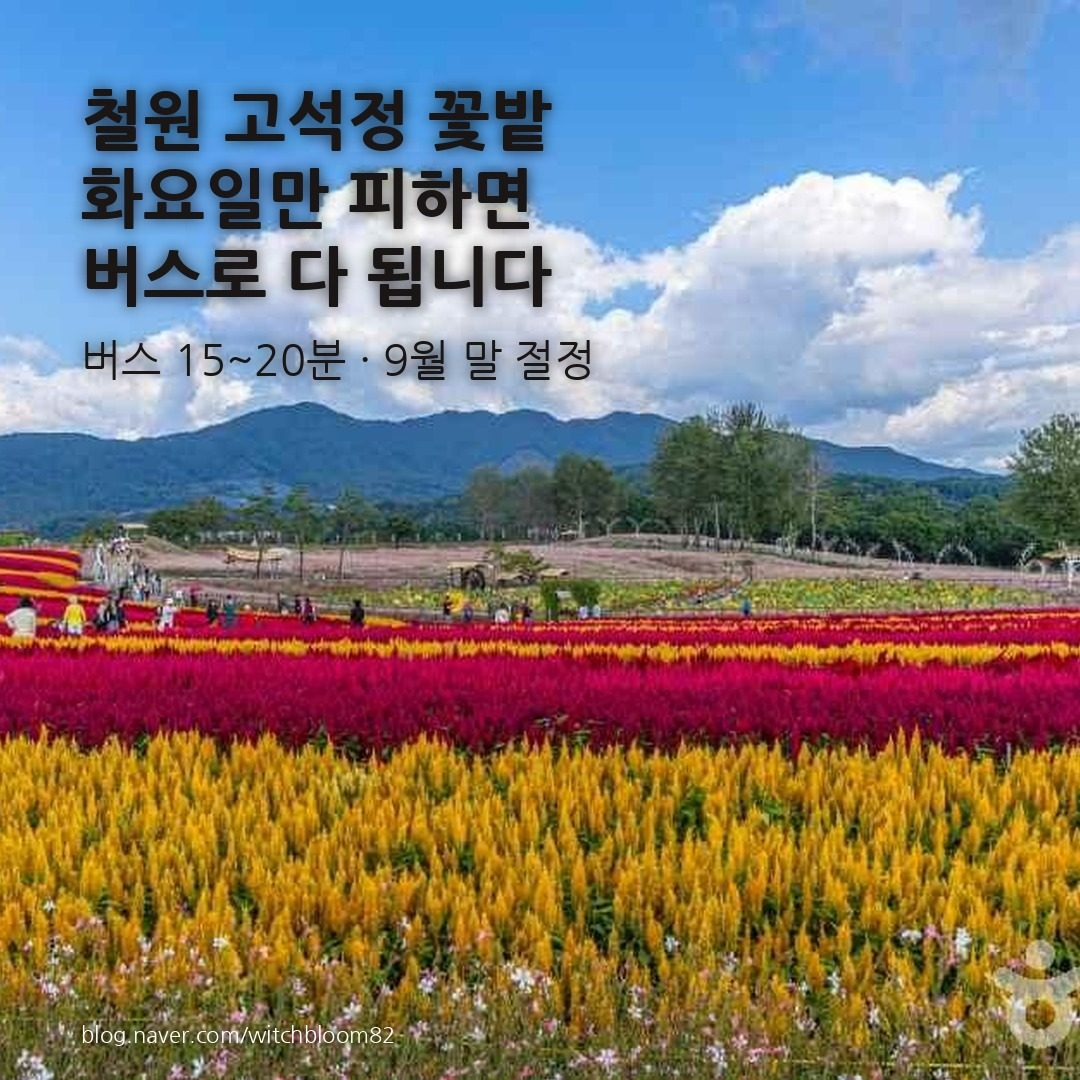
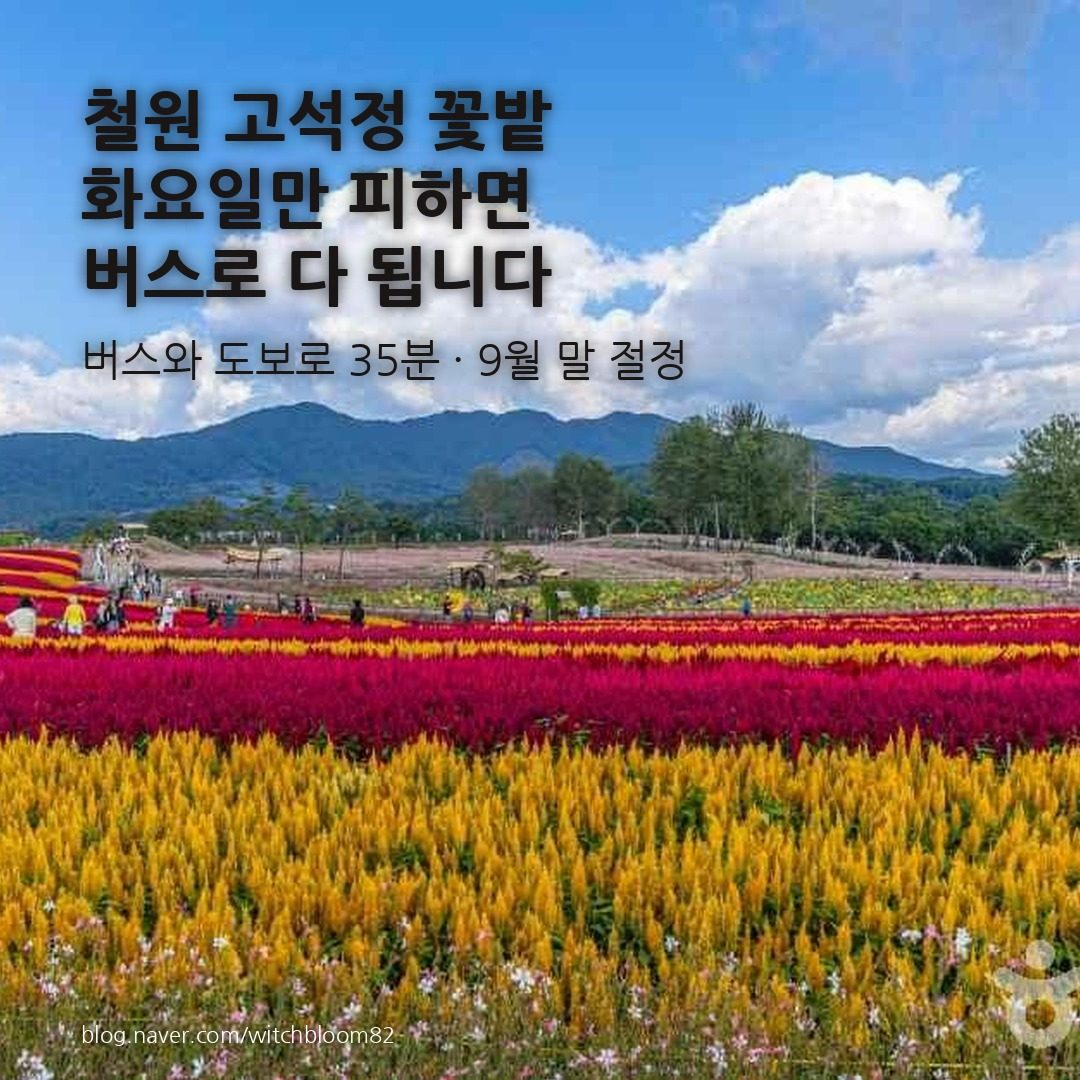
철원 교통 정보 정정 — 하차 후 도보 10분을 통째로 빠뜨렸다
운영자가 네이버지도로 확인해 잡아준 오류다. 2차 출처(나무위키·버스집계)를
믿고 쓴 값이 여러 개 틀렸다.

  버스 번호   1번(이평 방면)      → 2 · 5 · 2-1번
  승차 정류장  동송터미널(이평리)   → 이평리(정한약국 앞) · 터미널서 도보 1분
  소요        15~20분            → 총 35분 (도보1 + 버스22 + 도보10)
  하차 후     언급 없음           → 고석정(정문) 하차 후 도보 10분
  택시        9,530원 · 15분     → 13,200원 · 12분 · 7.7km
  '1-1번 미경유' 경고             → 근거 없음, 삭제

가장 나쁜 건 하차 후 도보 10분이다. "15분이면 도착"이라 해놓고 실제 35분이면
시니어 독자를 30분 늦게 만든다. 이 블로그가 막겠다던 바로 그 사고다.

area1·area2와 카드 3장(썸네일·코스요약·교통)을 다시 만들었다.
카드4는 '1번버스'라는 이름 자체가 틀려서 '동송터미널→꽃밭'으로 바꿨다.

안티패턴에 남겼다 — CLAUDE.md에 '지도 기준은 네이버지도'라고 적어놓고
정작 지도를 못 열어 그걸 못 지켰다. 마지막 1구간은 반드시 네이버지도
길찾기 값으로 적고, 못 열면 단정하지 말고 확인을 요청한다.
'버스 N분'이 아니라 '문 앞까지 총 N분'으로 쓴다.

Claude-Session: https://claude.ai/code/session_018cXnRr9rN6XXTQHvd3n7uT

Changed region(s): [[0.1528, 0.3056, 0.6417, 0.3667]]

diff --git a/.claude/posts/2026-09-07-철원가볼만한곳/area1.md b/.claude/posts/2026-09-07-철원가볼만한곳/area1.md
@@ -2,7 +2,7 @@
 
 1. 철원 가볼만한곳, 고석정 꽃밭 65세 5,000원 반나절 (31자) — 노리는 검색어: 철원 가볼만한곳 / 65세 할인
 2. 철원 가볼만한곳, 고석정 꽃밭 화요일엔 못 들어가요 (28자) — 노리는 검색어: 철원 가볼만한곳 / 화요일 휴무
-3. 철원 가볼만한곳, 동송터미널서 버스 20분 고석정 (27자) — 노리는 검색어: 철원 가볼만한곳 / 동송터미널 가는법
+3. 철원 가볼만한곳, 동송터미널서 35분 고석정 꽃밭 (26자) — 노리는 검색어: 철원 가볼만한곳 / 동송터미널 가는법
 
 ---
 
@@ -21,21 +21,21 @@
 가을 햇살 아래 억새가 흔들리는 고석정 꽃밭, 상상만 해도 마음이 편안해지죠.
 
 버스만으로 충분히 다녀올 수 있는 곳이에요.
-추천 순서는 동송터미널 → 1번 버스 → 고석정 꽃밭, 이 순서예요. 배차가 촘촘한 노선이라 가장 헤맬 일이 적어요.
-핵심 교통은 철원 농어촌버스 1번(이평 방면)이고, 동송터미널에서 타면 15~20분이면 도착해요.
+추천 순서는 동송터미널 → 이평리 정류장 → 농어촌버스 → 고석정 꽃밭, 이 순서예요.
+★터미널에서 꽃밭까지 [굵게]문 앞까지 총 35분[/굵게]으로 잡으세요. 버스만 22분이 아니라, 하차 후 걷는 10분이 더 붙어요.
 ★가장 조심할 점은 매주 화요일 휴무예요. 꽃밭도, 근처 맛집 두 곳도 화요일엔 문을 닫아요.
-실시간 버스 위치는 네이버지도로 보면 되고, 버스를 놓쳐도 동송터미널까지 택시로 약 9,530원, 15분이면 빠져나올 수 있어요.
+실시간 버스 위치는 네이버지도로 보면 되고, 버스를 놓쳐도 택시로 12분·약 13,200원이면 빠져나올 수 있어요.
 
 버스 노선 하나만 기억하면 되는 코스라 난이도는 낮은 편이에요.
 
 [박스]
 📌 3초 요약
 ✅ 가능여부 : 버스로 완전히 가능해요 (기차는 아직 이용 불가)
-✅ 핵심교통 : 동송터미널 → 1번 버스(이평 방면) 15~20분 · 1,550원
+✅ 핵심교통 : 동송터미널 → 이평리 정류장 도보 1분 → 2·5·2-1번 버스 22~27분 → 고석정(정문) 하차 후 도보 10분 (총 35~41분)
 ✅ 입장료 : 성인 10,000원 · 65세 이상 5,000원 (둘 다 절반은 철원사랑상품권으로 돌려받아요)
 ★ 조심할 점 : 매주 화요일 휴무 (꽃밭 + 맛집 2곳 모두)
 ✅ 하루 총 비용(65세 기준) : 왕복 지역버스 3,100원 + 입장료 실부담 2,500원 ≈ 5,600원 (동송까지 오가는 장거리 버스비는 별도예요)
-✅ 실시간/플랜B : 네이버지도로 버스 실시간 위치 보기, 놓치면 택시(약 9,530원·15분)로 탈출
+✅ 실시간/플랜B : 네이버지도로 버스 실시간 위치 보기, 놓치면 택시(12분·약 13,200원)로 탈출
 [/박스]
 
 [소제목]🌸 철원 고석정 꽃밭, 반나절이면 다 돌아볼 수 있나요?[/소제목]
@@ -43,16 +43,16 @@
 고석정 꽃밭은 반나절이면 충분히 돌아볼 수 있어요. 주상절리길까지 욕심내지 않아도 꽃밭만으로 하루가 알차요.
 
 1. 동송터미널 도착 (서울·의정부에서 버스)
-2. 동송터미널 → 1번 버스 → 고석정 꽃밭 : 15~20분
+2. 동송터미널 → 이평리 정류장(도보 1분) → 버스 22~27분 → 고석정(정문) 하차 → 도보 10분 : [굵게]총 35~41분[/굵게]
 3. 고석정 꽃밭 + 고석정(정자) 관람 : 2~3시간
-4. 동송 시내로 돌아와 점심 : 1시간
+4. 같은 길로 동송 시내 복귀(35분) → 점심 : 1시간
 5. 동송터미널에서 귀경 버스 : [색변경]16시 전 출발[/색변경]
 
 ★시각을 못 박지 않은 이유가 있어요. 의정부발 3001번은 12:30·16:00·18:50 세 편만 시각표가 확인됐어요.
 　3001-1번이 하루 9회 더 있지만 출발 시각이 공개돼 있지 않아, 오전에 도착하려면 예매 사이트에서 이른 편이 있는지 먼저 보는 게 좋아요.
-　거꾸로 계산하면 이렇게 돼요 — 귀경 16시에 맞추려면, 늦어도 12시에는 꽃밭에 들어가 있어야 해요.
+　거꾸로 계산하면 이렇게 돼요 — 귀경 16시 버스를 타려면 [굵게]꽃밭에서 15시에는 나와야[/굵게] 하고(복귀 35분+여유), 그러려면 늦어도 정오에는 꽃밭에 들어가 있어야 해요.
 
-이동시간을 다 더해도 3시간 안팎이고, 꽃밭에서 머무는 시간이 그보다 길어요. 다 안 봐도 되니, 꽃밭 하나만 느긋하게 보고 오는 것도 좋은 선택이에요.
+동송까지 오가는 시간을 빼면 현지 이동은 왕복 1시간 10분 남짓이고, 꽃밭에서 머무는 시간이 그보다 길어요. 다 안 봐도 되니, 꽃밭 하나만 느긋하게 보고 오는 것도 좋은 선택이에요.
 
 [이미지 삽입: 이미지2. 코스 요약 타임라인 카드]
 
@@ -80,22 +80,24 @@
 
 [소제목]🚌 동송터미널에서 고석정 꽃밭까지, 버스로 몇 분 걸리나요?[/소제목]
 
-동송터미널에서 고석정 꽃밭까지는 철원 농어촌버스 1번(이평 방면)을 타면 15~20분이면 도착해요.
+동송터미널에서 고석정 꽃밭까지는 농어촌버스로 [굵게]총 35분[/굵게]이 걸려요. 버스만 22분이 아니라 걷는 시간이 앞뒤로 붙어요.
 
-✅ 승차 위치 : 동송터미널(이평리)
-✅ 노선 : 1번, 이평리~오덕리~고석정~문혜리~신철원
-✅ 소요 : 약 15~20분
+STEP1. 동송시외버스터미널에서 나와 [굵게]이평리(정한약국 앞)[/굵게] 정류장으로 걸어요 — 도보 1분
+STEP2. [굵게]2번 · 5번[/굵게] 버스를 타요 (2-1번도 가지만 27분으로 조금 더 걸려요)
+STEP3. [굵게]고석정(정문)[/굵게]에서 내려요 — 버스 22분
+STEP4. 정문에서 꽃밭 입구까지 [굵게]도보 10분[/굵게]
+
+✅ 총 소요 : 35분 (2·5번) / 41분 (2-1번)
 ✅ 요금 : 1,550원(교통카드 기준) · 단일요금제
-✅ 배차 : 하루 15회 — 자주 있는 편은 아니라 시간을 보고 움직이는 게 좋아요
 ✅ 환승 : 하차 후 60분 안에 1회 무료 환승
 
-★번호를 꼭 보고 타세요. [굵게]1-1번은 고석정을 지나지 않아요[/굵게](문혜리·양촌·화지10리 경유). 정류장에 여러 번호가 서니 헷갈리기 쉬워요.
+★[색변경]하차 후 걷는 10분을 꼭 계산에 넣으세요.[/색변경] '버스 22분'만 보고 움직이면 도착 시각이 어긋나요.
 
-정확한 배차 간격과 막차 시각은 아직 자료를 찾지 못했어요. 그래서 이 코스는 버스가 뜸해도 낭패 보지 않게 택시를 정식 대안으로 끼워 넣었어요.
+정확한 배차 간격과 막차 시각은 공식 자료로 확인되지 않았어요. 정류장에 여러 번호가 서니, 네이버지도 길찾기로 다음 차 번호를 보고 타는 게 가장 확실해요.
 
-✅ 택시 : 동송터미널 → 고석정 약 [굵게]9,530원 · 15분 안팎[/굵게] (기본요금 3,500원 + 거리요금)
+✅ 택시 : 동송터미널 → 고석정 꽃밭 [굵게]12분 · 7.7km · 약 13,200원[/굵게] (네이버지도 예상요금 기준)
 
-버스가 하루 15회나 있는데 정확한 시각표를 못 구했다는 게 좀 답답하긴 한데, 반대로 생각하면 [색변경]최악의 경우에도 만 원 한 장이면 동송으로 빠져나올 수 있다[/색변경]는 뜻이에요. 버스만 믿고 기다리다 시간 버릴 걱정은 안 해도 돼요.
+버스 시각표를 못 구했다는 게 답답하긴 한데, 반대로 생각하면 [색변경]최악의 경우에도 만 삼천 원이면 12분 만에 빠져나올 수 있다[/색변경]는 뜻이에요. 버스만 믿고 기다리다 시간 버릴 걱정은 안 해도 돼요.
 
 [버튼링크:철원군 공영버스 노선·시간표|https://www.cwg.go.kr/www/contents.do?key=414]
 
@@ -120,7 +122,7 @@
 ★동서울 노선은 하루 16회지만 전체 시각표가 공개돼 있지 않아요. 나머지 편은 예매 사이트에서 당일 조회로 나와요.
 
 ★[색변경]의정부에서 출발한다면 시간 계산을 조심하세요.[/색변경] 확인된 3001번 의정부발 첫차가 12:30이라, 이 편을 타면 동송 도착이 오후 1시 반 무렵이에요.
-　거기서 1번 버스로 15~20분 더 들어가야 하니, 실제로 꽃밭에 머무는 시간은 한 시간 남짓밖에 안 돼요. 반나절 나들이로는 많이 아쉽죠.
+　거기서 버스와 도보로 35분 더 들어가야 하니, 실제로 꽃밭에 머무는 시간은 한 시간이 채 안 돼요. 반나절 나들이로는 많이 아쉽죠.
 　→ 의정부에서 가더라도 오전 편(3001-1번)이 있는지 예매 사이트에서 먼저 보는 게 좋아요. 없으면 동서울에서 출발하는 편이 훨씬 넉넉해요.
 
 📅 시각표와 요금은 2026년 9월 기준이에요. 실제 출발 시각과 남은 좌석은 아래 예매 사이트에서 바로 볼 수 있어요.
@@ -228,7 +230,7 @@
 
 ★여기서 꼭 짚을 게 있어요. [굵게]세 곳 중 두 곳이 화요일 휴무[/굵게]예요. 꽃밭도 화요일 휴무니까, [색변경]화요일엔 아예 철원 갈 계획을 잡지 마세요.[/색변경] 이 하나만 기억해도 헛걸음을 반은 막는 거예요.
 
-★귀경 버스는 동송 출발 16:00(3001번, 의정부행)이 시각표로 확인된 마지막 편이에요. 점심까지 먹고 나면 시간이 빠듯하니, 꽃밭 관람은 오전~이른 오후에 끝내는 게 안전해요. 버스를 놓쳐도 동송터미널까지 택시 요금은 9,530원 안팎이니 너무 늦었다고 당황하지 않아도 돼요.
+★귀경 버스는 동송 출발 16:00(3001번, 의정부행)이 시각표로 확인된 마지막 편이에요. 꽃밭에서 동송까지 35분이 걸리니 [굵게]늦어도 15시에는 꽃밭에서 나와야[/굵게] 해요. 버스를 놓쳐도 택시로 12분·약 13,200원이니 너무 늦었다고 당황하지 않아도 돼요.
 
 [이미지 삽입: 이미지8. 동송 맛집 3곳 카드]
 
@@ -243,13 +245,13 @@
 [박스]
 🎒 방문 전 체크리스트
 ✅ 오늘이 화요일이 아닌지 (꽃밭 + 맛집 2곳 모두 휴무)
-✅ 1번 버스 번호가 맞는지 (1-1번은 고석정 안 지나가요)
+✅ 버스에서 내린 뒤 도보 10분이 더 있다는 것 (총 35분)
 ✅ 오후 4시 전에 나올 수 있는 일정인지
 ✅ 65세 이상이면 신분증을 챙겼는지 (요금 할인·상품권 환급용)
 ✅ 편한 신발 (평지 위주지만 산책로가 넓어요)
 [/박스]
 
-한 줄 정리 : 철원 고석정 꽃밭은 동송터미널에서 버스 15~20분, 화요일만 피하면 65세 5,000원(실부담 2,500원)으로 반나절 알차게 다녀올 수 있는 곳이에요.
+한 줄 정리 : 철원 고석정 꽃밭은 동송터미널에서 버스와 도보로 총 35분, 화요일만 피하면 65세 5,000원(실부담 2,500원)으로 반나절 알차게 다녀올 수 있는 곳이에요.
 
 [이미지 삽입: 이미지9. CTA 카드]
 

diff --git a/CLAUDE.md b/CLAUDE.md
@@ -50,6 +50,7 @@
 - [ ] 공식 링크 [버튼링크] ≥2개, 관련 문단 바로 밑, 실제 URL(utm 제거)
 - [ ] 맛집 각각: 상호+대표메뉴+가격+도보권+영업시간(이름만 나열 아님)
 - [ ] 귀경 막차 명시 / 지도 기준 네이버지도 / 효도 프레임 0
+- [ ] **[교통]** 마지막 1구간이 **네이버지도 길찾기 값**인가 — **하차 후 도보**를 포함한 '문 앞까지 총 N분'인가
 - [ ] 박스 3~5 / 해시태그 10 / CTA 1 / 영역1 이미지삽입=영역2 개수·이름 1:1
 - [ ] **[이모지]** **썸네일문구 · 소제목 · 박스 제목 · 메인 CTA에 각각** 이모지가 붙었는가
 　　(📌3초요약·📞전화·🎒체크 / 역사·추모 글이면 생략하거나 🕊·🤍만)
@@ -99,6 +100,7 @@
 | **라벨-값 줄만 쓰고 주어를 빼서 인용이 안 됨** | **★AI 브리핑은 '떼어내도 뜻이 통하는 문장'만 인용한다. `✅ 65세 이상 무료`는 주어가 없어 인용 후보에서 탈락. 소제목 직후에 `국립생태원 입장료는 65세 이상 무료예요.`처럼 [장소명+결론] 완결 문장을 먼저 두고, 라벨-값 줄은 그 아래에 둔다. 라벨-값을 없애는 게 아니라 위에 한 문장을 얹는 것** |
 | **버스로 갈 수 있는 곳에 제휴 링크를 넣음** ⏸보류 | **(현재 제휴 링크 자체를 안 넣음) ★여행커넥트 링크는 '뚜벅이로 안 되는 구간'에만. 버스·기차로 가는 구간에 넣으면 독자가 광고글로 인식하고, 이 블로그의 유일한 자산인 신뢰가 무너진다. 한 글 1개 이하 + 대가성 문구 필수. 상품이 실제로 없으면 링크 없이 발행한다** |
 | **공공누리 사진에 글자를 얹었는데 '변경금지'였음** | **★2026-09 철원에서 하마터면 낸 사고. 관광사진 API가 사진마다 주는 `cpyrhtDivCd`가 `Type1`(1유형·변형 가능)과 `Type3`(1유형+**변경금지**)로 갈린다. 맛집 카드 배경으로 쓰려던 한탄강빵명장이 Type3였다 — 글자를 얹었으면 위반. 은하수교·순담계곡·송대소도 전부 Type3. **같은 지역 안에서도 사진마다 다르니 사진 단위로 확인한다.** Type3는 글자 없이 원본 그대로만 쓴다. 방법은 `.claude/photo-tool.md`** |
+| **2차 출처 시간표를 믿고 네이버지도를 안 열어봄** | **★2026-09 철원 실제 사고. 나무위키·버스집계 사이트를 근거로 '1번 버스(이평 방면) 15~20분 · 택시 9,530원'이라 썼는데, 운영자가 네이버지도로 확인하니 **2·5·2-1번 · 버스 22분 · 택시 13,200원**이었다. 무엇보다 **하차 후 도보 10분이 통째로 빠져 총 35분을 15~20분으로** 적었다 — 시니어 독자를 30분 늦게 만드는 값이다. CLAUDE.md에 '지도 기준은 네이버지도'라고 적어놓고 지도를 못 열어 그걸 못 지킨 것. → **마지막 1구간(정류장→목적지)은 반드시 네이버지도 길찾기 값으로 적는다.** 못 열면 그 구간을 '몇 분'으로 단정하지 말고 운영자에게 확인을 요청한다. ★특히 **하차 후 도보**를 빼먹지 않는다 — '버스 N분'이 아니라 **문 앞까지 총 N분**으로 쓴다** |
 | **역사·추모 글에 부적절한 상징 사용** | **★실제 사고: 광복절·서대문형무소 글 소제목에 🎌(일장기 교차) 이모지를 넣음. 독립운동 관련 글에 일본 상징(🎌🇯🇵⛩🏯🌸)은 절대 금지. 위안부·독립운동·전쟁·재난 관련 글은 이모지를 아예 쓰지 않거나 🕊·🤍 같은 중립적인 것만. 소제목 이모지도 글감의 성격을 먼저 본다.
 　★★**단 이건 역사·추모 글 얘기다. 일반 여행글은 소제목에 이모지를 정상적으로 쓴다** — 이 사고 사례를 보고
 　"이모지는 위험하니 아예 빼자"로 읽으면 그것도 실패다(2026-09 철원·가평 원고에서 실제로 그렇게 전부 빠졌다).

diff --git a/.claude/posts/2026-09-07-철원가볼만한곳/cards/README.md b/.claude/posts/2026-09-07-철원가볼만한곳/cards/README.md
@@ -10,7 +10,7 @@
 | `01_썸네일.jpg` | 1:1 | 꽃밭(낮) |
 | `02_코스요약.jpg` | 4:5 | 크림 |
 | `03_꽃밭전경.jpg` | 4:5 | 꽃밭(해질녘) |
-| `04_1번버스.jpg` | 4:5 | 크림 |
+| `04_동송터미널→꽃밭.jpg` | 4:5 | 크림 |
 | `05_교통.jpg` | 3:4 | 크림 |
 | `06_요금.jpg` | 4:5 | 꽃밭(낮) |
 | `07_쉼터.jpg` | 4:5 | 폭포 |
